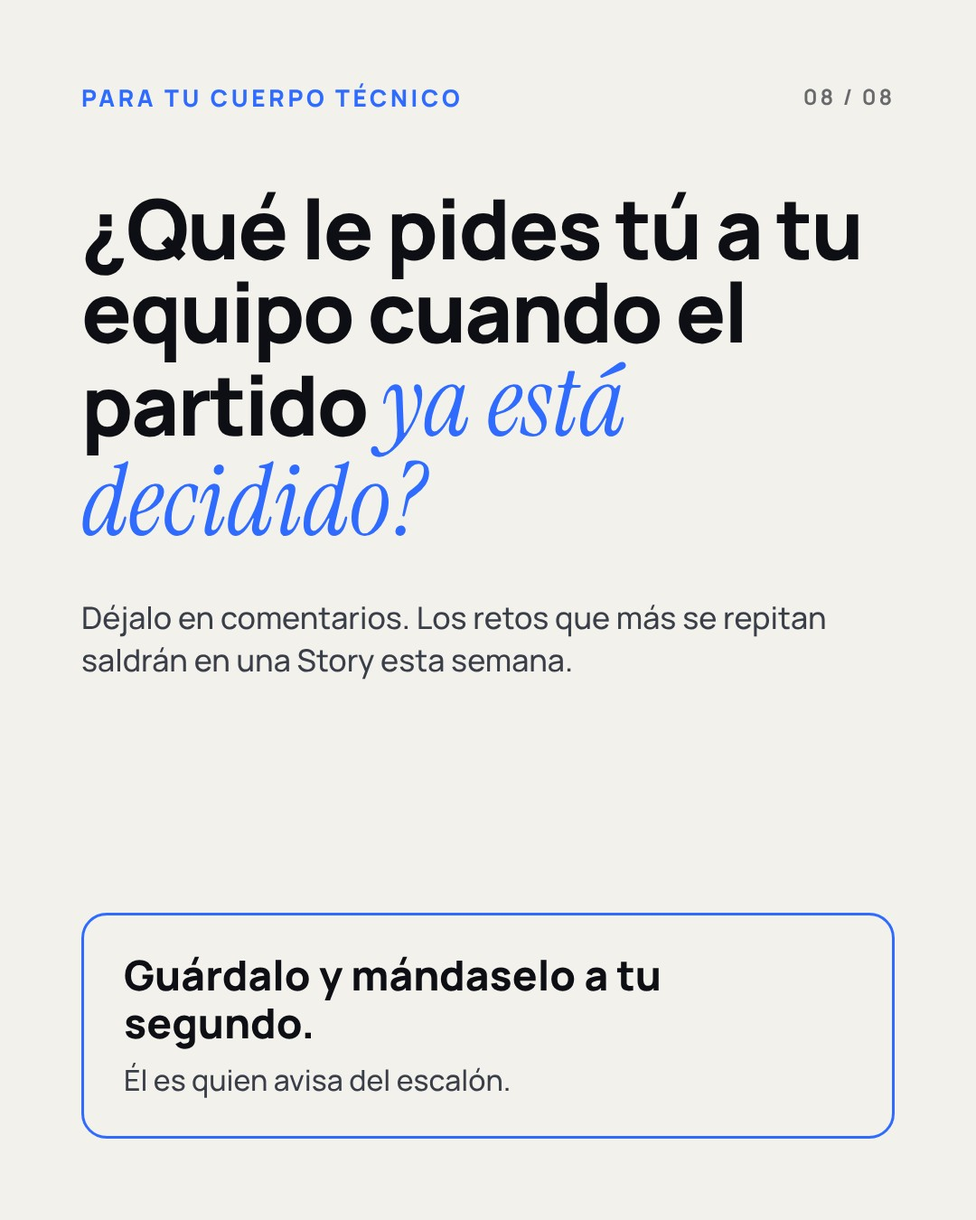
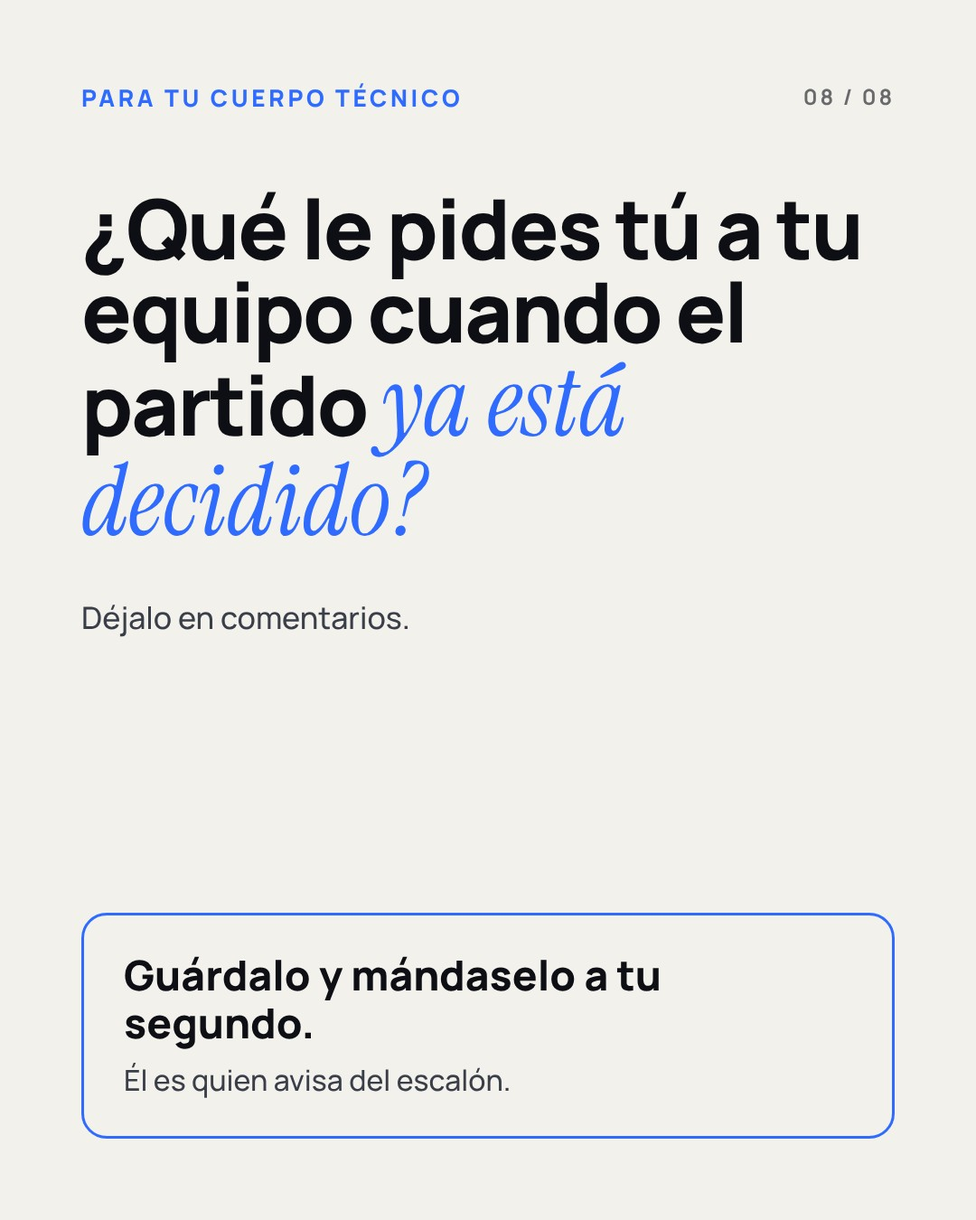
Laura 18/11 12:20: consigna de Biel sin IA de pago (recursos de u67-u69 plano a plano), crítica de Andrés de u67-u69 (u68 78, u67 74 con correcciones), c12 y c10s3 corregidas, parche 0020 de Dani (pantallas a 5 palabras en u34-u42)

Changed region(s): [[0.0917, 0.4978, 0.8556, 0.56]]

diff --git a/tools/stories1124/c.html b/tools/stories1124/c.html
@@ -9,7 +9,7 @@
 <div style="margin-top:56px">
 <div class="q"><div class="p">¿Para qué deporte?</div><div class="a">Fútbol, baloncesto y balonmano.</div></div>
 <div class="q"><div class="p">¿Qué hace?</div><div class="a">Planifica temporada, semanas y sesiones. Registra tus partidos en directo.</div></div>
-<div class="q" style="border-bottom:2px solid #262b36"><div class="p">¿Cuánto cuesta?</div><div class="a">Hasta el 27 nov: <span style="color:#4f86ff">3 meses gratis.</span></div></div>
+<div class="q" style="border-bottom:2px solid #262b36"><div class="p">¿Cuánto cuesta?</div><div class="a">Con la lista (hasta el 27 nov): <span style="color:#4f86ff">3 meses gratis.</span></div></div>
 </div>
 <div style="margin-top:auto;padding-top:40px">
 <div class="sr" style="font-size:80px;line-height:1.05">¿Te queda otra? Déjala en el último post.</div>

diff --git a/tools/carrusel12/index.html b/tools/carrusel12/index.html
@@ -124,7 +124,7 @@
   <div class="in">
     <div class="top"><span class="k">Para tu cuerpo técnico</span><span>08 / 08</span></div>
     <h2 style="font-size:92px;margin-top:80px">¿Qué le pides tú a tu equipo cuando el partido <span class="sr" style="font-size:110px">ya está decidido?</span></h2>
-    <p class="b" style="margin-top:50px">Déjalo en comentarios. Los retos que más se repitan saldrán en una Story esta semana.</p>
+    <p class="b" style="margin-top:50px">Déjalo en comentarios.</p>
     <div class="cta" style="border-color:var(--blue);margin-top:auto">
       <div style="font-weight:800;font-size:46px;line-height:1.15">Guárdalo y mándaselo a tu segundo.</div>
       <div style="font-weight:500;font-size:32px;color:#3a3e48;margin-top:14px">Él es quien avisa del escalón.</div>

diff --git a/agencia/criticas/2026-11-18-u67-u69-guion.md b/agencia/criticas/2026-11-18-u67-u69-guion.md
@@ -1,0 +1,63 @@
+# Crítica de los guiones u67 · u68 · u69 · contexto «quiénes somos» (Andrés, 05 · MODO GUION · escala 16/11 · 18/11 12:10)
+
+Guiones: `agencia/guiones/2026-11-18-u67-u69-lanz-contexto-tres-propuestas.md` (encargo directo de Biel, 18/11). Se critican antes de que Marta los monte (u67 jue 19, u68 vie 20; u69 reserva).
+
+**Fase del día en que salen:** u67, jue 19 → **CONTEXTO**. u68, vie 20 → **DECISIÓN** (por la mañana; por la tarde ya es problema). u69, reserva (sáb 21 sería problema).
+**Encaje de fase:** u67 **sí** (quiénes somos, de dónde venimos, por qué existe: es la definición de contexto). u68 **sí, solo el vie 20 por la mañana o a mediodía** («decidimos crearlo… el 28 abre» es contexto + decisión); por la tarde ya toca problema. u69 **sí como contexto o decisión**; el sábado 21 solo si no hay Reel de problema para ese hueco.
+**Aviso de fase (no bloquea):** los tres enseñan tres planos de la app antes del mar 24 por la tarde. La regla de oro lo prohíbe, pero el encargo de Biel del 18/11 lo pide expresamente («la app solo al final») y es posterior: manda. Condición para que no sea solución adelantada: 2–3 planos de menos de 1,5 s, sin zoom a funciones, sin «con ProTeam lo haces en…» y sin rótulos que expliquen la pantalla.
+**Sin el nombre ni la cara de Biel ✔ · sin precio ✔ · no se cuenta el plan ✔ · fecha y oferta como MARCA.md ✔ («abre el 28», «lista hasta el 27», «3 meses gratis»).**
+**Texto mínimo (18/11):** ✔ rótulos de una a tres palabras.
+
+## Lo que comparten (pruebas duras)
+- **Verdad.** «Somos entrenadores» y «seis meses construyéndolo»: dato confirmado por Biel el 18/11. «Después, ya no vuelve»: solo vale si se refiere a los 3 meses gratis de la lista; el rótulo tiene que decirlo («LISTA · 3 MESES GRATIS»), no un «se cierra» a secas, porque la app abre el 28 y no se cierra.
+- **La captura de «Jugador» no existe** (Pau, 18/11). Lo que hay es la lista de carga por jugador. Vale con el rótulo «cada jugador»; no vale si se rotula o se presenta como ficha de jugador (sería interfaz inventada: bloqueante).
+- **Recursos.** Sin grabación propia y sin IA de pago (Biel, 18/11 11:41), la mitad de los planos de manos y objetos no existe hoy. El riesgo real de estas tres piezas no es el guion: es que el montaje se quede en rótulos sobre fondos. Por eso la nota de ejecución visual es prudente y la auditoría final decide.
+- **Filtro «primer plano reconocible»:** no lo cumplen (objetos, nadie reconocible). Es decisión de Biel copiar la referencia (objetos y persona sin cara): se acepta y se apunta para que Samuel compare el salto en 3 s con el de u08.
+- **Motivo para enviar:** ninguno de los tres lo tiene escrito. Añadir en la descripción «Envíaselo a tu segundo entrenador» (regla de alcance) y mantener la pregunta final («¿Qué usas tú hoy: libreta, Excel o WhatsApp?»), que es fácil de contestar.
+
+## u67 · «Se cierra el 27»
+**Hook sin sonido en 1,5 s:** a medias. «27 · 11 · se cierra» no dice qué se cierra: quien llega de fuera no lo entiende. **Riesgo de salto: alto** (fecha sin situación; se parece al arranque de u01, 59,8 % de saltos).
+Primera impresión en frío: me quedo si ya sigo la cuenta; si no, no sé de qué va hasta el segundo 7.
+
+| criterio | nota | por qué |
+|---|---|---|
+| Hook | 10/15 | intriga sin situación; no nombra al entrenador ni el deporte |
+| Estrategia | 13/15 | contexto exacto: quiénes, de dónde, por qué |
+| Narrativa | 12/15 | problema → buscábamos → decidimos; vuelve al calendario |
+| Valor | 9/15 | conecta, pero no deja nada que usar |
+| Originalidad | 11/15 | nueva en la cuenta; la estructura es la de la referencia |
+| Credibilidad y claridad | 8/10 | datos confirmados; «se cierra» sin decir qué |
+| Ejecución visual | 6/10 | faltan la mitad de los planos |
+| CTA | 5/5 | uno solo, fecha correcta |
+| **Total** | **74/100** | **NECESITA CAMBIOS** (un punto por debajo). Con la corrección 1 pasa a 77. |
+
+**Correcciones obligatorias (Marta, al montar; no hace falta reescribir la voz):**
+1. Fotograma 0: junto a «27 · 11», desde el primer fotograma, «LISTA DE ESPERA · APP PARA ENTRENADORES» en pequeño, y el segundo plano (2,5 s) adelantado al segundo 1,5 con «libreta» ya en pantalla. Se comprueba en la lámina del segundo 0 y del 1,5.
+2. Rótulo final: «LISTA HASTA EL 27 · 3 meses gratis» (como está). Nunca «se cierra» sin «lista».
+3. «Jugador»: rótulo «cada jugador» sobre la lista de carga; nada de «ficha».
+
+## u68 · «Cuatro sitios»
+**Hook sin sonido en 1,5 s:** ✔ si el primer objeto se reconoce (libreta en mano con el rótulo LIBRETA). **Riesgo de salto: medio** (objetos cotidianos y ritmo de un plano por segundo; el entrenador se reconoce antes del segundo 4).
+Primera impresión en frío: «cuatro sitios para un solo equipo» es mi semana. Recordaré la frase.
+
+| criterio | nota | por qué |
+|---|---|---|
+| Hook | 13/15 | cuatro palabras, cuatro objetos, una cifra; se entiende sin contexto |
+| Estrategia | 13/15 | contexto + decisión; «SE CIERRA EL 27» arriba desde el fotograma 0 |
+| Narrativa | 12/15 | objetos → nosotros también → se pierde → decidimos → bucle |
+| Valor | 9/15 | identificación, no utilidad |
+| Originalidad | 12/15 | el problema contado con objetos, no con una escena |
+| Credibilidad y claridad | 8/10 | todo confirmado; «el mismo sitio» se entiende |
+| Ejecución visual | 6/10 | depende de tener los cuatro objetos; la vista cenital no existe |
+| CTA | 5/5 | uno solo |
+| **Total** | **78/100** | **PUBLICABLE** (puerta 1). Sin bloqueantes. |
+
+**Cambios recomendados:** el rótulo de arriba, «LISTA: SE CIERRA EL 27», para que no parezca que se cierra la app. Si no hay vista cenital, los cuatro objetos en cuadrícula de motion graphics (2 × 2) con «4 SITIOS · 1 equipo».
+**Recomendación de orden:** es la mejor de las tres. Si solo hay voz y recursos para una antes del viernes, que sea esta, y que salga el jueves 19.
+
+## u69 · «Lo que nadie ve» (reserva; nota orientativa)
+Hook bueno para el entrenador vocacional («los que nadie ve»), pero la cocina de noche, el reloj a las 23:00 y el coche con los balones no existen en el banco: hoy es la más difícil de montar. Se parece a u50 (domingo, 23:00): no pueden salir cerca. **Riesgo de salto: medio.** Nota orientativa de guion: **76**. La cuenta de días tiene que ser la real del día en que salga: jue 19 «ocho días», vie 20 «siete», sáb 21 «seis».
+
+## Resumen para Laura y Marta
+- u68 (78) → la primera que se monta. u67 (74) → se monta con las tres correcciones de arriba; la auditoría final comprueba la 1 en las láminas. u69 → reserva.
+- Voz: u67 651 caracteres, u68 622, u69 612 (una toma cada una; caben las dos primeras en el tope de un día).

diff --git a/agencia/recursos/2026-11-18-u67-u69-contexto.md b/agencia/recursos/2026-11-18-u67-u69-contexto.md
@@ -41,3 +41,31 @@ Para u68 falta lo mismo más la vista cenital de los cuatro objetos en el suelo;
 3. **Lo más rápido y lo más parecido a la referencia:** diez planos de 2 s grabados con el móvil (libreta, pizarra, portátil, llaves, bolsa de balones, unas manos). Biel dijo que no hay planos propios; se deja apuntado por si cambia.
 
 Seguiré con Commons en el próximo turno (una búsqueda cada medio minuto): libreta, pizarra de imanes y portátil.
+
+---
+
+## Actualización 18/11 12:20 (Pau) · consigna de Biel: sin Higgsfield ni IA de pago
+Biel (18/11 11:41): solo banco de imágenes y material ya disponible; nada generado de pago; si un fotograma no tiene imagen válida, se avisa en la tarea. Las propuestas 1 (subir el plan) y 3 (grabar) de arriba quedan descartadas. Vale la 2.
+
+**Búsqueda de hoy en Wikimedia Commons (único banco al que llegan los turnos):** catorce consultas en dos tandas (libreta en mano, portátil con hoja de cálculo, llaves en mano, móvil con chat, pizarra de imanes, entrenador de espaldas en el banquillo, bolsa de balones). Resultado: ninguna imagen válida. Commons cortó la mayoría («demasiadas peticiones») y las que respondieron no sirven (actos oficiales, grabados antiguos, coches) o vinieron vacías. Pexels, Pixabay y Unsplash no son accesibles desde los turnos.
+
+### Plano a plano: qué imagen hay y cuál no (u67 y u68)
+| plano del guion | imagen válida hoy | cómo se resuelve sin IA |
+|---|---|---|
+| Calendario tachado hasta el 27 | no (y mejor que no sea foto) | motion graphics de Marta: noviembre, días que se tachan |
+| Banquillo vacío (dos distintos) | **sí**: Bernabéu y Camp Nou, verticales | banco |
+| Cronómetro, silbato, conos, carro de balones | **sí** (cuatro fotos del banco) | banco, 1 s cada uno |
+| App real: Semana y Convocatoria | **sí** (capturas reales) | banco |
+| App real: «Jugador» | **no existe la ficha**; hay lista de carga por jugador | esa lista con el rótulo «cada jugador», nunca «ficha» |
+| Libreta en mano | **no** | icono y rótulo «libreta» en motion graphics |
+| Excel en el portátil | **no** | cuadrícula de hoja de cálculo dibujada (genérica, sin logotipo) |
+| WhatsApp en el móvil | **no** | burbujas de chat genéricas dibujadas (sin logotipo ni interfaz copiada) |
+| Pizarra con imanes / pizarra borrada a mano | **no** (las del banco llevan entrenadores reconocibles) | pizarra dibujada con imanes que se borran |
+| Manos que dejan llaves y libreta | **no** | se sustituye por el banquillo vacío con el rótulo |
+| Persona de espaldas, sin cara | **no** | se sustituye por el segundo banquillo vacío («para ti») |
+| Cuatro objetos en el suelo, vista cenital (u68) | **no** | cuadrícula 2 × 2 de los cuatro iconos |
+| Cocina de noche, reloj 23:00, coche con balones (u69) | **no** | u69 se queda en reserva: sin estas imágenes no se parece a lo escrito |
+
+**Aviso para Biel (lo que pide la consigna):** sin IA y sin grabación, u67 y u68 tienen imagen real para el banquillo, cuatro objetos y la app; **libreta, Excel, WhatsApp, pizarra, manos y persona de espaldas no tienen imagen válida** y saldrán dibujados (motion graphics), no fotografiados. Se parecerán menos al vídeo de referencia. Diez planos de 2 s grabados con un móvil lo resolverían, si en algún momento se puede.
+
+**Siguiente paso (Pau):** probar Commons por categorías, de una en una y despacio (Notebooks, Tactics boards, Laptops, Keys), solo para libreta, pizarra, portátil y llaves.

diff --git a/agencia/guiones/2026-11-17-u34-f11-radar-minuto-45.md b/agencia/guiones/2026-11-17-u34-f11-radar-minuto-45.md
@@ -35,15 +35,15 @@ El entrenador recuerda el resultado y la sensación, no el minuto de cada gol; p
 
 Sin pausa antes del reto. Silencio corto antes de «cero a tres». El CTA de comentar y la campaña van en pantalla y en la descripción, no en la voz.
 
-## 6. Pantallas (máx. 7 palabras por golpe)
+## 6. Pantallas (máx. 5 palabras por golpe; recortadas el 18/11, encargo de Biel de menos texto)
 | s | pantalla |
 |---|---|
 | 0–3,5 | Foto a sangre: la selección española en el campo o el Metropolitano (Pau) · **45' 0-1** gigante desde el fotograma 0; en el 2,0 cae **57' 0-3** en azul |
-| 3,5–9,0 | línea de tiempo de 90 minutos en motion graphics; se encienden tres marcas (45', 53', 57') pegadas al descanso · **44 PARTIDOS SIN PERDER** → **3 GOLES EN 12 MINUTOS** · abajo, pequeño: España 2-3 Inglaterra · 15/11 |
-| 9,0–12,0 | la línea de tiempo se vacía y queda en blanco · **¿Y EL TRAMO DE TU EQUIPO?** |
+| 3,5–9,0 | línea de tiempo de 90 minutos en motion graphics; se encienden tres marcas (45', 53', 57') pegadas al descanso · **44 SIN PERDER** → **3 GOLES EN 12′** · abajo, pequeño: España 2-3 Inglaterra · 15/11 |
+| 9,0–12,0 | la línea de tiempo se vacía y queda en blanco · **¿Y TU EQUIPO?** |
 | 12,0–16,5 | móvil con la captura real; zoom a la pestaña «Cronología» y a la fila «P2 22:00 · Gol encajado», recuadrada ≥ 2 s |
 | 16,5–20,5 | ficha guardable: **5 PARTIDOS · 1 LÍNEA** · una línea de tiempo con los goles encajados de cinco partidos; se juntan en un tramo, que se marca en azul |
-| 20,5–24,0 | vuelve la foto del principio (bucle) · RETO PARA TU STAFF · **¿En qué minutos** *encajamos?* · abajo: Comenta tu deporte, categoría y días · HASTA EL 27 NOV |
+| 20,5–24,0 | vuelve la foto del principio (bucle) · RETO PARA TU STAFF · **¿En qué minutos** *encajamos?* · abajo: **HASTA EL 27 NOV** · pequeño: Comenta tu deporte |
 
 ## 7. Descripción
 Minuto 45: 0-1. Minuto 57: 0-3. Tres goles en doce minutos, con el descanso en medio. ⚽

diff --git a/agencia/guiones/2026-11-17-u35-bq-radar-dieciseis-minutos.md b/agencia/guiones/2026-11-17-u35-bq-radar-dieciseis-minutos.md
@@ -35,15 +35,15 @@ Al jugador que vuelve se le dice un tope de palabra y el marcador lo rompe, porq
 
 Sin pausa antes del reto. Silencio corto antes de «no con los dieciocho».
 
-## 6. Pantallas (máx. 7 palabras por golpe)
+## 6. Pantallas (máx. 5 palabras por golpe; recortadas el 18/11, encargo de Biel de menos texto)
 | s | pantalla |
 |---|---|
 | 0–3,5 | Foto a sangre: Maledon con el Real Madrid o el banquillo del Madrid de baloncesto (Pau) · **16:02** gigante desde el fotograma 0; en el 2,0 entra **18 PTS** · abajo, pequeño: Baskonia 84-98 Real Madrid · 15/11 |
 | 3,5–6,0 | «18 PTS» se apaga y «16:02» crece y pasa a azul · **QUÉDATE CON LOS 16** |
-| 6,0–11,0 | marcador en motion graphics que se aprieta (58–57) y un contador de minutos de un jugador que pasa de 10 y sigue subiendo · **¿ANTES O CON EL MARCADOR DELANTE?** |
-| 11,0–17,5 | ficha guardable: **VUELVE DE LESIÓN** · 1 Minutos tope, escritos antes · 2 RPE al acabar · 3 Solo sube si el RPE no se dispara |
+| 6,0–11,0 | marcador en motion graphics que se aprieta (58–57) y un contador de minutos de un jugador que pasa de 10 y sigue subiendo · **¿ANTES O CON EL MARCADOR?** |
+| 11,0–17,5 | ficha guardable: **VUELVE DE LESIÓN** · 1 Tope de minutos, antes · 2 RPE al acabar · 3 Sube si el RPE aguanta |
 | 17,5–21,0 | móvil con la captura real: «RPE de partido», las tres casillas y, recuadrada ≥ 2 s, «Carga = minutos × RPE» |
-| 21,0–24,5 | vuelve la foto del principio (bucle) · RETO PARA TU STAFF · **¿Cuántos minutos** *juega el sábado?* · abajo: Comenta tu deporte, categoría y días · HASTA EL 27 NOV |
+| 21,0–24,5 | vuelve la foto del principio (bucle) · RETO PARA TU STAFF · **¿Cuántos minutos** *juega el sábado?* · abajo: **HASTA EL 27 NOV** · pequeño: Comenta tu deporte |
 
 ## 7. Descripción
 Volvía de lesión. Jugó 16 minutos. Metió 18 puntos. Quédate con los 16. 🏀

diff --git a/agencia/guiones/2026-11-17-u37-bm08-lo-tira-el-de-siempre.md b/agencia/guiones/2026-11-17-u37-bm08-lo-tira-el-de-siempre.md
@@ -35,15 +35,15 @@ El lanzador se hereda («lo tiraba el año pasado») y no se revisa porque los s
 
 Silencio corto antes de «No lo sabes». Sin pausa antes del reto.
 
-## 6. Pantallas (máx. 7 palabras por golpe)
+## 6. Pantallas (máx. 5 palabras por golpe; recortadas el 18/11, encargo de Biel de menos texto)
 | s | pantalla |
 |---|---|
 | 0–3,5 | Foto a sangre: lanzador de primer nivel en la línea de siete metros frente al portero (Asobal, EHF o selección; Pau) · **7 M · MIN 58** gigante desde el fotograma 0 · en el 2,0: **LO TIRA EL DE SIEMPRE** |
 | 3,5–7,0 | contador en motion graphics «7 M ESTA TEMPORADA: ? / ?» con los interrogantes parpadeando · **¿CUÁNTOS HA METIDO?** |
 | 7,0–11,0 | fila de siete dorsales; uno encendido con marcas de lanzamiento, los otros seis a cero · **LOS DEMÁS, NI UNO** |
-| 11,0–18,0 | ficha guardable: **SIETE METROS** · 1 Apunta cada uno: quién, dónde, gol o parada · 2 Segundo lanzador, decidido antes · abajo, en serif azul: *se decide con la cuenta, no con la costumbre* |
+| 11,0–18,0 | ficha guardable: **SIETE METROS** · 1 Quién tira y si entra · 2 Segundo lanzador, decidido antes · abajo, en serif azul: *la cuenta, no la costumbre* |
 | 18,0–22,5 | móvil con captura real 004: se recuadra «7 metros» ≥ 2 s; corte a la captura del informe con «GOLES 7M» recuadrado ≥ 1,5 s |
-| 22,5–26,0 | vuelve la foto del principio (bucle) · RETO PARA TU STAFF · **¿Quién tira** *el siguiente?* · abajo: Comenta tu deporte, categoría y días · HASTA EL 27 NOV |
+| 22,5–26,0 | vuelve la foto del principio (bucle) · RETO PARA TU STAFF · **¿Quién tira** *el siguiente?* · abajo: **HASTA EL 27 NOV** · pequeño: Comenta tu deporte |
 
 ## 7. Descripción
 Siete metros, minuto 58, y lo tira el de siempre. ¿Cuántos ha metido este año? 🤾

diff --git a/agencia/guiones/2026-11-17-u42-bm09-que-dia-paro-mas.md b/agencia/guiones/2026-11-17-u42-bm09-que-dia-paro-mas.md
@@ -37,15 +37,15 @@ En base se cuenta lo que se ve en el marcador (goles encajados) y no lo que no s
 
 Silencio de 0,4 s antes de «El sábado». Sin pausa antes del reto.
 
-## 6. Pantallas (máx. 7 palabras por golpe)
+## 6. Pantallas (máx. 5 palabras por golpe; recortadas el 18/11, encargo de Biel de menos texto)
 | s | pantalla |
 |---|---|
 | 0–3,8 | Foto a sangre: portero de primer nivel en estirada (Asobal, EHF o selección; Pau) · desde el fotograma 0, a dos columnas: **SÁB 28 · DOM 20** · en el 2,5: **¿QUÉ DÍA PARÓ MÁS?** |
 | 3,8–11,0 | las dos columnas se rellenan en motion graphics (no es la app): **SÁB 47 tiros · 19 paradas → 40 %** / **DOM 30 tiros · 10 paradas → 33 %**; el 40 % se enciende en azul |
 | 11,0–14,0 | foto del portero, más oscura · **LE RIÑES EL MEJOR DÍA** |
-| 14,0–20,5 | ficha guardable: **PORTERO, EL LUNES** · 1 Cada tiro a puerta, apuntado · 2 Paradas ÷ tiros · 3 Al portero, el porcentaje · abajo, serif azul: *los goles dicen cuánto le tiraron* |
+| 14,0–20,5 | ficha guardable: **PORTERO, EL LUNES** · 1 Cada tiro, apuntado · 2 Paradas ÷ tiros · 3 Dile el porcentaje · abajo, serif azul: *porcentaje, no goles* |
 | 20,5–26,5 | móvil: captura real REGISTRO_ACCION_005 («¿Gol o parada?») 1 s → captura real RESULTADOS_001 con «% portero» recuadrado ≥ 2,5 s |
-| 26,5–30,0 | vuelve la foto del principio (bucle) · RETO PARA TU STAFF · **¿Qué día paró más** *el vuestro?* |
+| 26,5–30,0 | vuelve la foto del principio (bucle) · RETO PARA TU STAFF · **¿Y el vuestro?** |
 | 30,0–33,0 | **cierre de campaña con la animación del contador de la lista de espera** (la de u28 v3 / u09: contador que corre, correo, toque, «Estás dentro») → «3 meses gratis · HASTA EL 27 NOV» |
 
 ## 7. Descripción

diff --git a/agencia/guiones/2026-11-17-u36-bm-radar-nueve-de-nueve.md b/agencia/guiones/2026-11-17-u36-bm-radar-nueve-de-nueve.md
@@ -35,15 +35,15 @@ Cuando aparece un segundo partido en la semana, el entrenador de base mantiene s
 
 Sin pausa antes del reto. Silencio corto antes de «y el Barça».
 
-## 6. Pantallas (máx. 7 palabras por golpe)
+## 6. Pantallas (máx. 5 palabras por golpe; recortadas el 18/11, encargo de Biel de menos texto)
 | s | pantalla |
 |---|---|
 | 0–3,5 | Foto a sangre: Artaleku o el Bidasoa de amarillo; alternativa, el Barça de balonmano (Pau) · **9 DE 9** gigante desde el fotograma 0; en el 1,5 entra **2 PARTIDOS ESTA SEMANA** · abajo, pequeño: Bidasoa Irun · Asobal |
 | 3,5–7,0 | tira de la semana en motion graphics (L a D) con dos pelotas: una entre semana (EUROPA) y otra el sábado (BARÇA · 20:00) |
 | 7,0–10,0 | la misma tira con los entrenos de siempre encima; uno choca con la pelota de entre semana · **UN APLAZADO AL MIÉRCOLES** |
-| 10,0–16,5 | ficha guardable: **SEMANA DE 2 PARTIDOS** · QUITA la sesión más dura · DEJA una cosa del rival · MIDE el RPE tras el primero |
+| 10,0–16,5 | ficha guardable: **SEMANA DE 2 PARTIDOS** · QUITA la más dura · DEJA una cosa del rival · MIDE el RPE |
 | 16,5–21,0 | móvil con la captura real «RPE de partido»: zoom a «RPE MEDIO DEL EQUIPO 6.8» y a una fila de jugador; después, plantillas semanales |
-| 21,0–24,0 | vuelve la foto del principio (bucle) · RETO PARA TU STAFF · **¿Qué entreno** *quitamos?* · abajo: Comenta tu deporte, categoría y días · HASTA EL 27 NOV |
+| 21,0–24,0 | vuelve la foto del principio (bucle) · RETO PARA TU STAFF · **¿Qué entreno** *quitamos?* · abajo: **HASTA EL 27 NOV** · pequeño: Comenta tu deporte |
 
 ## 7. Descripción
 Nueve de nueve. Y esta semana, dos partidos: Europa entre semana y el Barça el sábado. 🤾

diff --git a/agencia/guiones/2026-11-17-u38-f11-06-la-sesion-en-el-coche.md b/agencia/guiones/2026-11-17-u38-f11-06-la-sesion-en-el-coche.md
@@ -34,15 +34,15 @@ El entrenador de base no repite sesión por falta de ideas, sino porque la decid
 
 Silencio corto antes de «Te falta haberlo decidido ayer». Sin pausa antes del reto.
 
-## 6. Pantallas (máx. 7 palabras por golpe)
+## 6. Pantallas (máx. 5 palabras por golpe; recortadas el 18/11, encargo de Biel de menos texto)
 | s | pantalla |
 |---|---|
 | 0–4,5 | Foto a sangre: entrenador de primer nivel mirando el reloj en la banda (LaLiga, Premier o Champions; Pau) · **18:10** gigante desde el fotograma 0 · en el 1,5: **ENTRENAS A LAS 18:30** |
 | 4,5–8,0 | tres etiquetas que caen como sellos, iguales a las de la semana pasada: RONDO · POSESIÓN · PARTIDILLO · **LA DE SIEMPRE** |
 | 8,0–11,5 | reloj en motion graphics que retrocede de 18:10 a «AYER · 22:00» · **DECIDIRLO** *ayer* |
-| 11,5–19,0 | ficha guardable: **LA NOCHE ANTES · 3 RENGLONES** · 1 Qué quiero ver el sábado · 2 La tarea que lo entrena · 3 Cómo acaba |
+| 11,5–19,0 | ficha guardable: **LA NOCHE ANTES · 3 RENGLONES** · 1 Qué ver el sábado · 2 La tarea que lo entrena · 3 Cómo acaba |
 | 19,0–23,5 | móvil con la captura real de Inicio: se recuadra «Siguiente: Preparar entrenamiento · 18:30» ≥ 2 s y después la fila «Salida de balón 3+1 · 18:30» |
-| 23,5–28,0 | vuelve la foto del principio (bucle) · RETO PARA TU STAFF · **¿Qué toca** *mañana?* · abajo: Comenta tu deporte, categoría y días · HASTA EL 27 NOV |
+| 23,5–28,0 | vuelve la foto del principio (bucle) · RETO PARA TU STAFF · **¿Qué toca** *mañana?* · abajo: **HASTA EL 27 NOV** · pequeño: Comenta tu deporte |
 
 ## 7. Descripción
 Son las 18:10, entrenas a las 18:30 y la sesión la estás pensando en el coche. ⚽

diff --git a/agencia/guiones/2026-11-17-u41-f11-07-veintiun-dias.md b/agencia/guiones/2026-11-17-u41-f11-07-veintiun-dias.md
@@ -35,13 +35,13 @@ El entrenador cierra el año con una despedida, no con un plan: la rutina para c
 
 Silencio corto antes de «Veintiún días».
 
-## 6. Pantallas (máx. 7 palabras por golpe)
+## 6. Pantallas (máx. 5 palabras por golpe; recortadas el 18/11, encargo de Biel de menos texto)
 | s | pantalla |
 |---|---|
 | 0–3,5 | Foto a sangre: banquillo o campo de un grande en invierno, de primer nivel (Pau; p. ej. Barça o Madrid entrenando con ropa de invierno, sin menores en primer plano) · desde el fotograma 0: **18 DIC → 8 ENE** · en el 2,3: **21 DÍAS** gigante en azul |
 | 3,5–7,0 | calendario en motion graphics (no es la app): 21 casillas que se tachan rápido; en la última, **8 ENE** · rótulo: «¿Cómo venís?» en serif azul |
 | 7,0–10,0 | la semana del 8 en blanco con «?» en cada día · **UNA SEMANA ADIVINANDO** |
-| 10,0–19,0 | ficha guardable: **ANTES DE IRTE** · 1 Rutina para casa: 2 días, corta · 2 Test el 18 = test el 8 · 3 Semana de vuelta, escrita · abajo, serif azul: *el 8 no se adivina, se compara* |
+| 10,0–19,0 | ficha guardable: **ANTES DE IRTE** · 1 Rutina corta: 2 días · 2 Test el 18 = el 8 · 3 Vuelta, ya escrita · abajo, serif azul: *el 8 se compara* |
 | 19,0–25,5 | móvil con captura real RUTINAS_001: «+ Nueva rutina» recuadrado y una tarjeta con «Ejercicios · Sesiones · fechas» ≥ 2 s; corte a TESTS_001 con «Programados» recuadrado ≥ 1,5 s |
 | 25,5–29,0 | vuelve la foto del principio (bucle) · RETO PARA TU STAFF · **¿Qué test hacéis** *el 18?* |
 | 29,0–34,0 | **LA APP DE PROTEAM** · pequeño: Enlace en la bio · Comenta tu deporte, categoría y días |

diff --git a/agencia/guiones/2026-11-17-u39-bq08-ganaba-de-quince.md b/agencia/guiones/2026-11-17-u39-bq08-ganaba-de-quince.md
@@ -35,15 +35,15 @@ El entrenador de base entrena remontar (ejercicios de «vas perdiendo») mucho m
 
 Silencio corto antes de «Ir ganando, casi nunca». Golpe de música en «quince».
 
-## 6. Pantallas (máx. 7 palabras por golpe)
+## 6. Pantallas (máx. 5 palabras por golpe; recortadas el 18/11, encargo de Biel de menos texto)
 | s | pantalla |
 |---|---|
 | 0–4,5 | Foto a sangre de Paris o Fenerbahce en Euroliga (Pau; jugadores reconocibles) · **+15** gigante desde el fotograma 0 · en el 1,8: **PARIS · FENERBAHCE** · en el 3,2 el +15 se vacía hasta **111–109 · PRÓRROGA** |
 | 4,5–9,0 | marcador en motion graphics: **3.er CUARTO · +12** que baja a +8, +4 al ritmo de la voz |
 | 9,0–11,5 | **REMONTAR:** ✔ · **IR GANANDO:** *casi nunca* |
-| 11,5–19,0 | ficha guardable: **MARTES · ÚLTIMO BLOQUE** · 4 minutos · empieza **+8** · unos cierran, otros remontan · cambian |
+| 11,5–19,0 | ficha guardable: **MARTES · ÚLTIMO BLOQUE** · 4 minutos · empieza **+8** · unos cierran, otros remontan |
 | 19,0–23,0 | móvil con la captura real de la semana: se recuadra «4 Pista» ≥ 1,5 s y el botón «+» |
-| 23,0–28,0 | vuelve la foto del principio (bucle) · RETO PARA TU STAFF · **¿Cuándo entrenasteis** *ir ganando?* · abajo: Comenta tu deporte, categoría y días · HASTA EL 27 NOV |
+| 23,0–28,0 | vuelve la foto del principio (bucle) · RETO PARA TU STAFF · **¿Cuándo entrenasteis** *ir ganando?* · abajo: **HASTA EL 27 NOV** · pequeño: Comenta tu deporte |
 
 ## 7. Descripción
 Paris ganaba de 15 a Fenerbahce y acabó necesitando una canasta sobre la bocina en la prórroga (Euroliga, 11/11). 🏀
